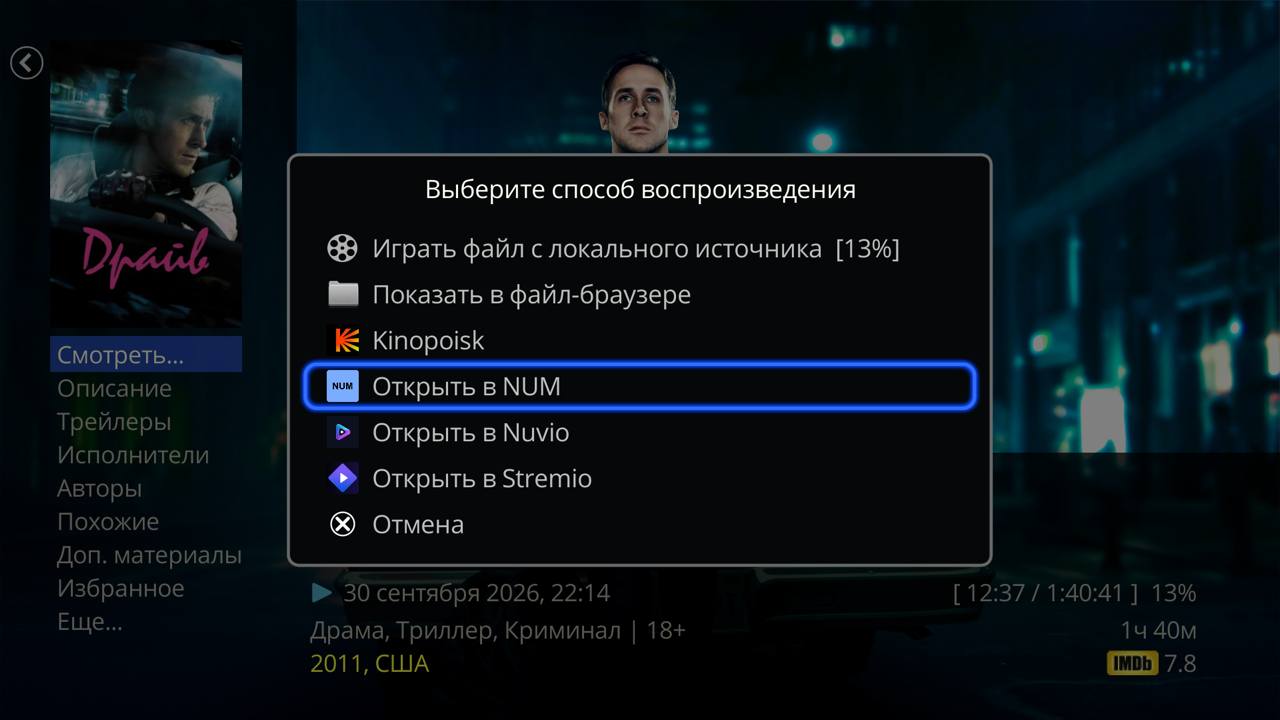
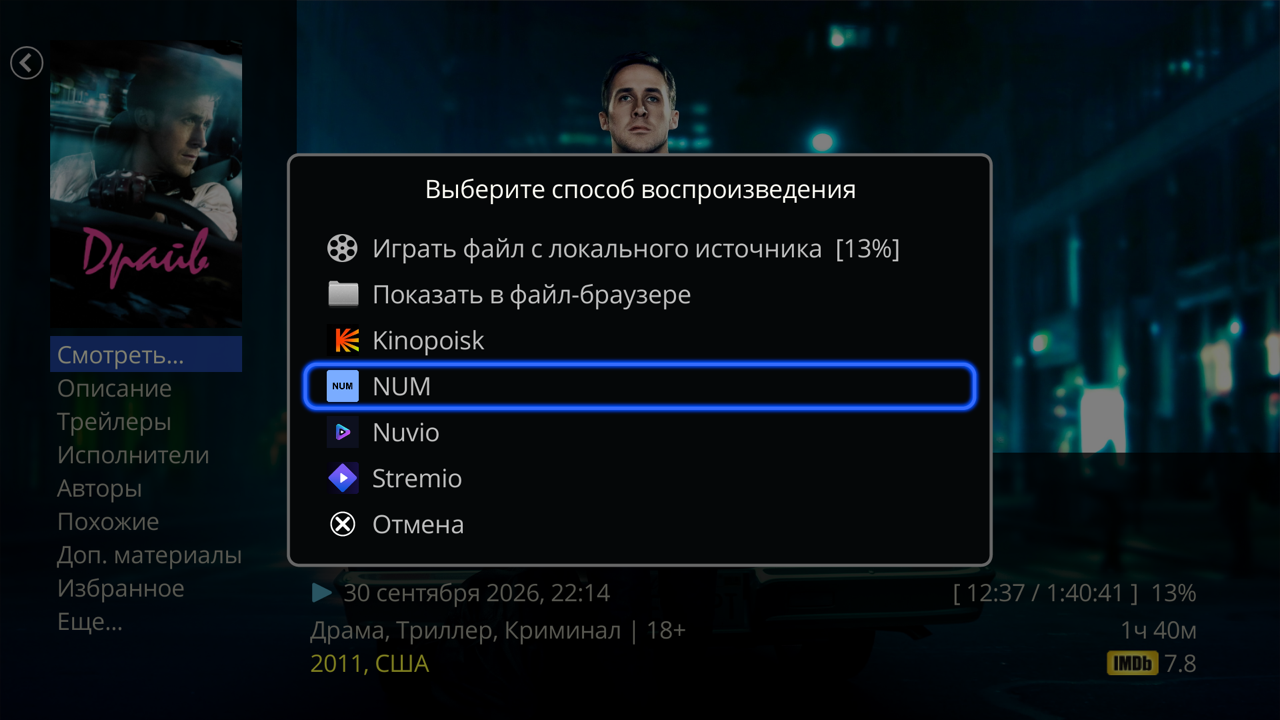
Пункт меню «Смотреть…» — просто имя приложения
Как у Kinopoisk и других приложений в меню: «Nuvio», «Stremio», «NUM»
вместо «Открыть в …». Название плагина в списке плагинов прежнее.
nuvio_supplier 0.2.1, stremio_supplier 0.1.1, num_supplier 0.1.1.

Changed region(s): [[0.2812, 0.6417, 0.4688, 0.7028], [0.2812, 0.5806, 0.4375, 0.6111], [0.2812, 0.5194, 0.4375, 0.55]]

diff --git a/plugin/num_supplier/README.md b/plugin/num_supplier/README.md
@@ -2,7 +2,7 @@
 
 **Русский** | [English](README.en.md)
 
-Плагин для Dune HD: добавляет пункт **«Открыть в NUM»** в меню **«Смотреть…»** карточки фильма или сериала в каталоге **«Фильмы»** Дюны. Пункт открывает тот же фильм или сериал в NUM — каталоге и поиске торрентов для Android TV от YouROK: там можно найти раздачу и отправить её в торрент-клиент, например в TorrServe.
+Плагин для Dune HD: добавляет пункт **«NUM»** в меню **«Смотреть…»** карточки фильма или сериала в каталоге **«Фильмы»** Дюны. Пункт открывает тот же фильм или сериал в NUM — каталоге и поиске торрентов для Android TV от YouROK: там можно найти раздачу и отправить её в торрент-клиент, например в TorrServe.
 
 Сделан для Dune HD Pro 8K Plus, прошивка 260827_0003_r24, и NUM 1.0.150 (`ru.yourok.num`).
 

diff --git a/plugin/stremio_supplier/README.md b/plugin/stremio_supplier/README.md
@@ -2,7 +2,7 @@
 
 **Русский** | [English](README.en.md)
 
-Плагин для Dune HD: добавляет пункт **«Открыть в Stremio»** в меню **«Смотреть…»** карточки фильма или сериала в каталоге **«Фильмы»** Дюны. Пункт открывает тот же фильм или сериал в [Stremio](https://www.stremio.com/) с потоками из ваших аддонов Stremio.
+Плагин для Dune HD: добавляет пункт **«Stremio»** в меню **«Смотреть…»** карточки фильма или сериала в каталоге **«Фильмы»** Дюны. Пункт открывает тот же фильм или сериал в [Stremio](https://www.stremio.com/) с потоками из ваших аддонов Stremio.
 
 Сделан для Dune HD Pro 8K Plus, прошивка 260827_0003_r24, и Stremio для Android TV 1.11.2 (`com.stremio.one`, Google Play).
 

diff --git a/README.md b/README.md
@@ -8,9 +8,9 @@
 
 | Плагин | Пункт меню | По какому ID открывает | Подробнее |
 |---|---|---|---|
-| `nuvio_supplier` | Открыть в Nuvio | IMDb, если нет — TMDB | [README](plugin/nuvio_supplier/README.md) |
-| `stremio_supplier` | Открыть в Stremio | IMDb, если нет — TMDB | [README](plugin/stremio_supplier/README.md) |
-| `num_supplier` | Открыть в NUM | TMDB | [README](plugin/num_supplier/README.md) |
+| `nuvio_supplier` | Nuvio | IMDb, если нет — TMDB | [README](plugin/nuvio_supplier/README.md) |
+| `stremio_supplier` | Stremio | IMDb, если нет — TMDB | [README](plugin/stremio_supplier/README.md) |
+| `num_supplier` | NUM | TMDB | [README](plugin/num_supplier/README.md) |
 
 Плагины независимы: ставьте только нужные. Само приложение нужно установить и настроить (аддоны, аккаунты) отдельно.
 

diff --git a/plugin/nuvio_supplier/README.md b/plugin/nuvio_supplier/README.md
@@ -2,7 +2,7 @@
 
 **Русский** | [English](README.en.md)
 
-Плагин для Dune HD: добавляет пункт **«Открыть в Nuvio»** в меню **«Смотреть…»** карточки фильма или сериала в каталоге **«Фильмы»** Дюны. Пункт открывает тот же фильм в [Nuvio TV](https://github.com/NuvioMedia/NuvioTV) с потоками из ваших аддонов Nuvio.
+Плагин для Dune HD: добавляет пункт **«Nuvio»** в меню **«Смотреть…»** карточки фильма или сериала в каталоге **«Фильмы»** Дюны. Пункт открывает тот же фильм в [Nuvio TV](https://github.com/NuvioMedia/NuvioTV) с потоками из ваших аддонов Nuvio.
 
 Сделан для Dune HD Pro 8K Plus, прошивка 260827_0003_r24, и Nuvio TV 1.0.0 (`com.nuvio.tv`).
 

diff --git a/plugin/stremio_supplier/CHANGELOG.md b/plugin/stremio_supplier/CHANGELOG.md
@@ -2,6 +2,9 @@
 
 **English version**
 
+## 0.1.1
+- The menu item is now called just "Stremio", like Kinopoisk and other apps in the "Play..." menu. The plugin keeps its name "Open in Stremio".
+
 ## 0.1.0
 - First version: "Open in Stremio" item with the Stremio icon in the "Play..." menu of the Movies catalog card.
 - Opens the title by IMDb ID; without IMDb, by TMDB ID (needs a Stremio addon that understands TMDB IDs).
@@ -10,6 +13,9 @@
 ---
 
 **Russian version**
+
+## 0.1.1
+- Пункт меню теперь называется просто «Stremio», как «Kinopoisk» и другие приложения в меню «Смотреть…». Название плагина осталось «Открыть в Stremio».
 
 ## 0.1.0
 - Первая версия: пункт «Открыть в Stremio» с иконкой Stremio в меню «Смотреть…» карточки каталога «Фильмы».

diff --git a/README.en.md b/README.en.md
@@ -8,9 +8,9 @@ Dune HD plugins that add items to the **Play...** menu of a movie or series card
 
 | Plugin | Menu item | Opens the title by | Details |
 |---|---|---|---|
-| `nuvio_supplier` | Open in Nuvio | IMDb ID, else TMDB ID | [README](plugin/nuvio_supplier/README.en.md) |
-| `stremio_supplier` | Open in Stremio | IMDb ID, else TMDB ID | [README](plugin/stremio_supplier/README.en.md) |
-| `num_supplier` | Open in NUM | TMDB ID | [README](plugin/num_supplier/README.en.md) |
+| `nuvio_supplier` | Nuvio | IMDb ID, else TMDB ID | [README](plugin/nuvio_supplier/README.en.md) |
+| `stremio_supplier` | Stremio | IMDb ID, else TMDB ID | [README](plugin/stremio_supplier/README.en.md) |
+| `num_supplier` | NUM | TMDB ID | [README](plugin/num_supplier/README.en.md) |
 
 Each plugin is independent: install only the ones you need. The app itself must be installed and set up (addons, accounts) separately.
 

diff --git a/plugin/num_supplier/CHANGELOG.md b/plugin/num_supplier/CHANGELOG.md
@@ -2,6 +2,9 @@
 
 **English version**
 
+## 0.1.1
+- The menu item is now called just "NUM", like Kinopoisk and other apps in the "Play..." menu. The plugin keeps its name "Open in NUM".
+
 ## 0.1.0
 - First version: "Open in NUM" item with the NUM icon in the "Play..." menu of the Movies catalog card.
 - Opens the movie or series in NUM by TMDB ID.
@@ -10,6 +13,9 @@
 ---
 
 **Russian version**
+
+## 0.1.1
+- Пункт меню теперь называется просто «NUM», как «Kinopoisk» и другие приложения в меню «Смотреть…». Название плагина осталось «Открыть в NUM».
 
 ## 0.1.0
 - Первая версия: пункт «Открыть в NUM» с иконкой NUM в меню «Смотреть…» карточки каталога «Фильмы».

diff --git a/plugin/nuvio_supplier/CHANGELOG.md b/plugin/nuvio_supplier/CHANGELOG.md
@@ -2,6 +2,9 @@
 
 **English version**
 
+## 0.2.1
+- The menu item is now called just "Nuvio", like Kinopoisk and other apps in the "Play..." menu. The plugin keeps its name "Open in Nuvio".
+
 ## 0.2.0
 - The menu item shows the Nuvio icon (taken from the icon cache Dune builds for installed apps).
 
@@ -16,6 +19,9 @@
 ---
 
 **Russian version**
+
+## 0.2.1
+- Пункт меню теперь называется просто «Nuvio», как «Kinopoisk» и другие приложения в меню «Смотреть…». Название плагина осталось «Открыть в Nuvio».
 
 ## 0.2.0
 - У пункта меню иконка Nuvio (из кэша иконок, который Дюна строит для установленных приложений).

diff --git a/plugin/num_supplier/README.en.md b/plugin/num_supplier/README.en.md
@@ -2,7 +2,7 @@
 
 [Русский](README.md) | **English**
 
-A Dune HD plugin that adds **Open in NUM** to the **Play...** menu of a movie or series card in the Dune **Movies** catalog. Selecting it opens the same title in NUM, the torrent catalog and search app for Android TV by YouROK, where you can find torrents and send them to a torrent client such as TorrServe.
+A Dune HD plugin that adds **NUM** to the **Play...** menu of a movie or series card in the Dune **Movies** catalog. Selecting it opens the same title in NUM, the torrent catalog and search app for Android TV by YouROK, where you can find torrents and send them to a torrent client such as TorrServe.
 
 Made for Dune HD Pro 8K Plus, firmware 260827_0003_r24, and NUM 1.0.150 (`ru.yourok.num`).
 

diff --git a/plugin/stremio_supplier/README.en.md b/plugin/stremio_supplier/README.en.md
@@ -2,7 +2,7 @@
 
 [Русский](README.md) | **English**
 
-A Dune HD plugin that adds **Open in Stremio** to the **Play...** menu of a movie or series card in the Dune **Movies** catalog. Selecting it opens the same title in [Stremio](https://www.stremio.com/), with streams from your Stremio addons.
+A Dune HD plugin that adds **Stremio** to the **Play...** menu of a movie or series card in the Dune **Movies** catalog. Selecting it opens the same title in [Stremio](https://www.stremio.com/), with streams from your Stremio addons.
 
 Made for Dune HD Pro 8K Plus, firmware 260827_0003_r24, and Stremio for Android TV 1.11.2 (`com.stremio.one`, Google Play).
 

diff --git a/plugin/nuvio_supplier/README.en.md b/plugin/nuvio_supplier/README.en.md
@@ -2,7 +2,7 @@
 
 [Русский](README.md) | **English**
 
-A Dune HD plugin that adds **Open in Nuvio** to the **Play...** menu of a movie or series card in the Dune **Movies** catalog. Selecting it opens the same title in [Nuvio TV](https://github.com/NuvioMedia/NuvioTV), with streams from your Nuvio addons.
+A Dune HD plugin that adds **Nuvio** to the **Play...** menu of a movie or series card in the Dune **Movies** catalog. Selecting it opens the same title in [Nuvio TV](https://github.com/NuvioMedia/NuvioTV), with streams from your Nuvio addons.
 
 Made for Dune HD Pro 8K Plus, firmware 260827_0003_r24, and Nuvio TV 1.0.0 (`com.nuvio.tv`).
 
